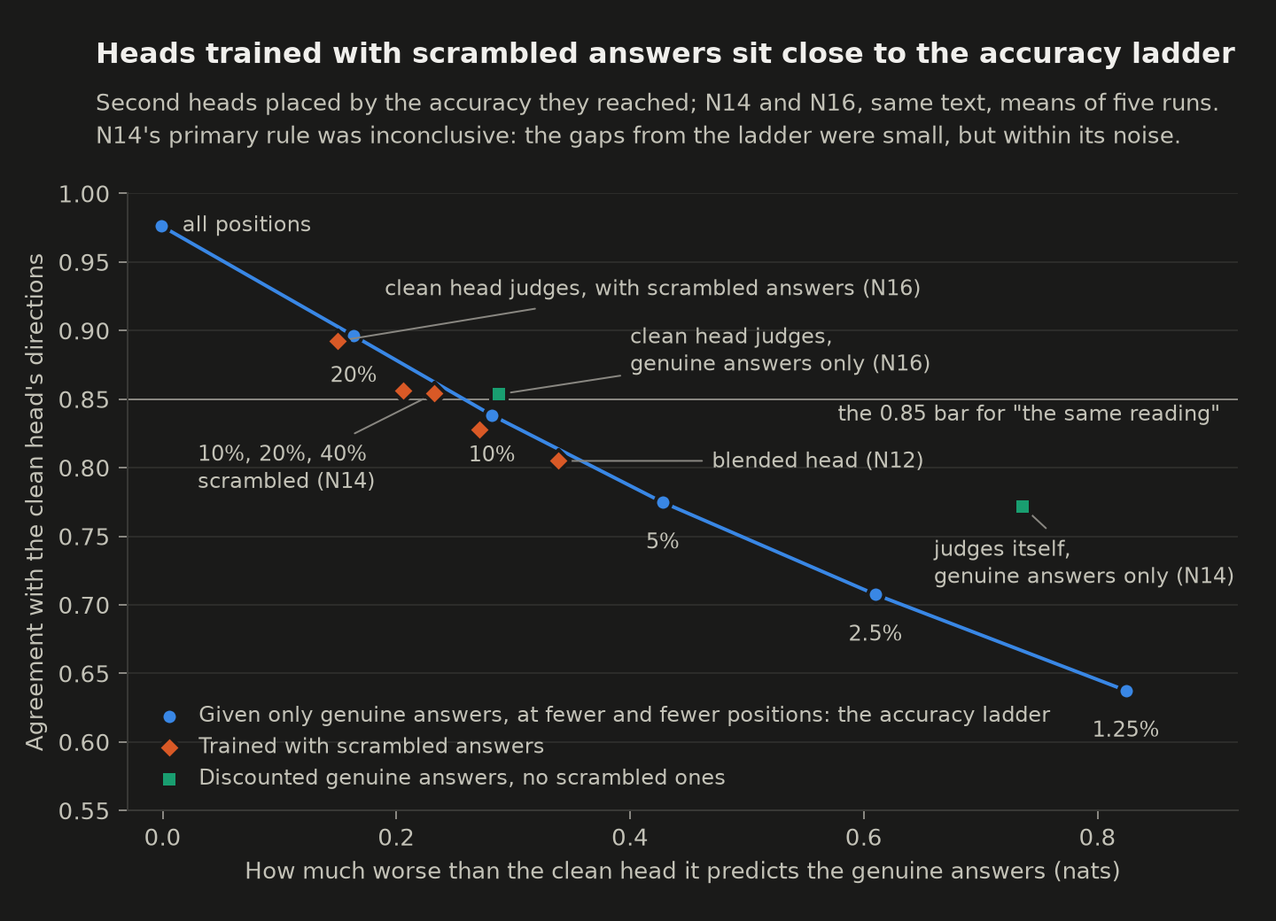
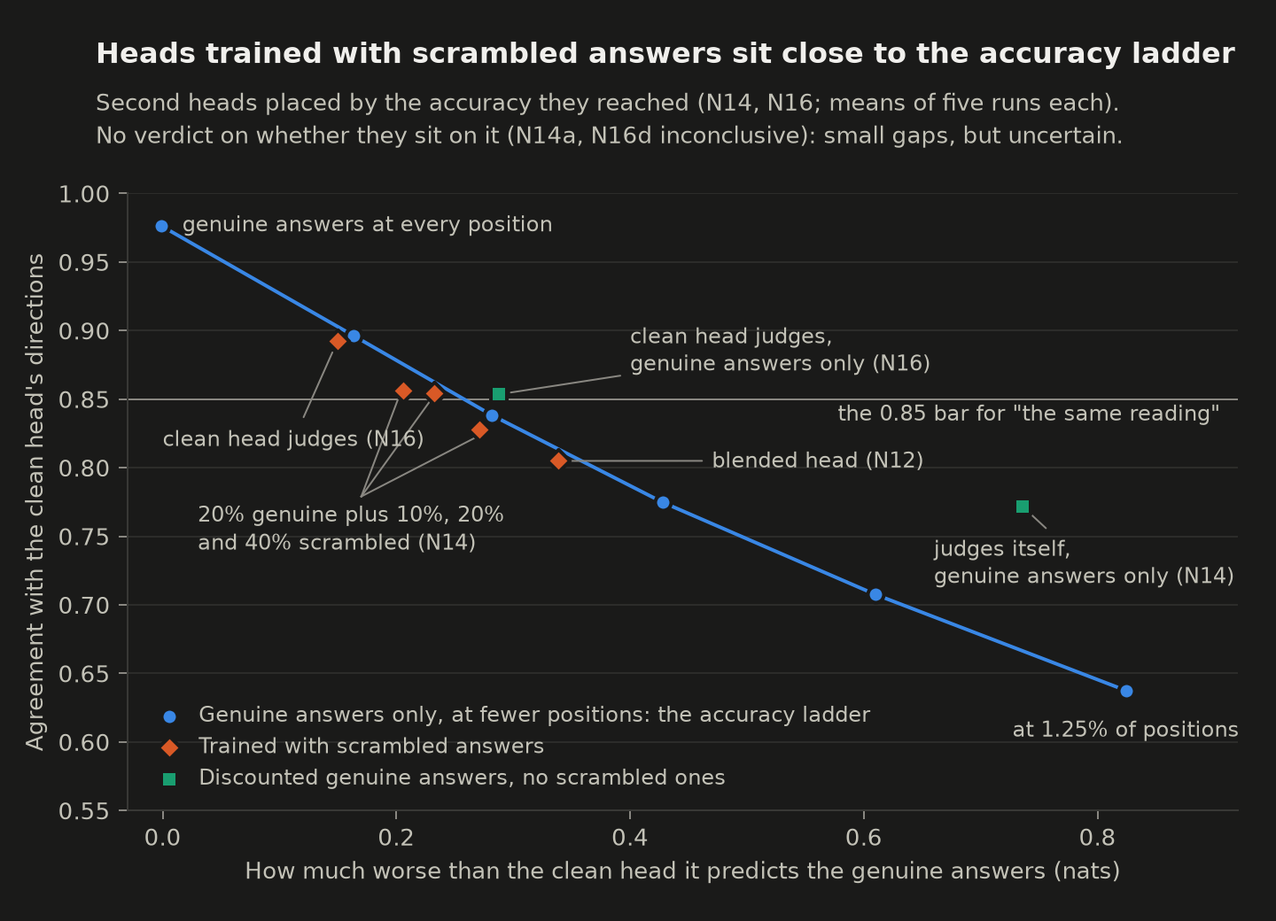
Figures and references: corrections from a fresh reader's check (6 substantive, 10 minor)
- Figure 1 now sits after Chapter 3 and says it plots N8's re-measurement on two sets of models; the text gives the
  matching numbers (on N8's measure the scrambled head shares 0.31 against 0.25 four words ahead). A band shows the
  deliberately mismatched head (0.13-0.18), so the far readings are not read against the theoretical random level
  alone.
- Figure 2: the middle rung labels removed so no label attaches to the wrong point; the three N14 doses labelled
  together with a leader each; the N16 leader ends on its diamond; the subtitle says N14a and N16d gave no verdict.
- Figure 3: the y-axis is the gap behind the clean head, not the glossary's "shortfall"; the caption maps the
  shortfall onto the bars; the subtitle no longer calls the judge comparisons exploratory (they are N16a and N16c).
- The WikiText-2 preregistration's dated note named the wrong file: the chance ranges are computed before any result
  by run_sanity.py and recorded in results/sanity.json; analyze.py applies the tau = 0 check and H5b's binomial test.
- Remaining references: the necessity audit's mention of the author's writing method; chance_check.py in the
  too-linear note; the palette comment in make_figures.py. (The previous commit removed the scientific-experimentation
  skill's name from the two conjecture notes, not a writing skill as its message said.)
- "Apart from the dated result lines, nothing here is a finding" in both conjecture notes; the audit's source names
[…]

diff --git a/experiments/simultaneity-conjecture/make_figures.py b/experiments/simultaneity-conjecture/make_figures.py
@@ -30,11 +30,11 @@ SEEDS6R = [3701, 3702, 3703, 3704, 3705]
 SEEDS7 = [3801, 3802, 3803, 3804, 3805]
 SEEDS12 = [4101, 4102, 4103, 4104, 4105]
 
-# The reference palette's first three categorical slots (validated all-pairs in both modes) and its chrome.
+# Three colours chosen to stay distinct for colour-blind readers, each stepped for a light and a dark background, and grey chrome.
 THEMES = {
-    'light': dict(surface='#fcfcfb', ink='#0b0b0b', ink2='#52514e', muted='#898781', grid='#e1e0d9', axis='#c3c2b7',
+    'light': dict(faint=0.35, surface='#fcfcfb', ink='#0b0b0b', ink2='#52514e', muted='#898781', grid='#e1e0d9', axis='#c3c2b7',
                   s1='#2a78d6', s2='#eb6834', s3='#1baf7a'),
-    'dark': dict(surface='#1a1a19', ink='#f0efec', ink2='#c3c2b7', muted='#898781', grid='#2c2c2a', axis='#383835',
+    'dark': dict(faint=0.6, surface='#1a1a19', ink='#f0efec', ink2='#c3c2b7', muted='#898781', grid='#2c2c2a', axis='#383835',
                  s1='#3987e5', s2='#d95926', s3='#199e70'),
 }
 PX = 0.72            # one display pixel in points, at 100 dpi
@@ -90,7 +90,8 @@ def distance_data():
         ladder[k] = [load('n8', f'f_n6r_{arm}_seed{s}')['fisher']['overlap_AB'] for s in SEEDS6R]
     noisy = [load('n8', f'f_n7_noisy_seed{s}')['fisher']['overlap_AB'] for s in SEEDS7]
     rank = load('n8', f'f_n6r_k2_seed{SEEDS6R[0]}')['fisher']['rank']
-    return ladder, noisy, rank / 256
+    rotated = [load('n8', f'f_n6r_same_seed{s}')['rotated_control']['overlap_AB'] for s in SEEDS6R]
+    return ladder, noisy, rank / 256, rotated
 
 
 RUNGS = ('clean', 'sub20', 'sub10', 'sub05', 'sub025', 'sub0125')
@@ -124,29 +125,32 @@ def twobytwo_data():
 # ------------------------------------------------------------------ figures
 
 def fig_distance(c, data):
-    ladder, noisy, rand = data
+    ladder, noisy, rand, rotated = data
     fig, ax = figure(c)
-    fig.subplots_adjust(left=0.1, right=0.74, top=0.79, bottom=0.14)
+    fig.subplots_adjust(left=0.1, right=0.72, top=0.79, bottom=0.14)
     xs = [1, 2, 4, 8]
     means = [st.mean(ladder[k]) for k in xs]
-    ax.axhline(rand, color=c['muted'], linewidth=1 * PX, zorder=1)
-    ax.text(8.25, rand, 'random directions', color=c['ink2'], fontsize=9, va='center', ha='left', clip_on=False)
+    lab = dict(color=c['ink2'], fontsize=9)
+    ax.axhspan(min(rotated), max(rotated), color=c['muted'], alpha=0.16, linewidth=0, zorder=1)
+    ax.text(8.35, st.mean(rotated), 'a mismatched head', va='center', ha='left', clip_on=False, **lab)
+    ax.plot([0.85, 8.0], [rand, rand], color=c['muted'], linewidth=1 * PX, zorder=1)
+    ax.text(8.35, rand, 'random directions', va='center', ha='left', clip_on=False, **lab)
     for k in xs:
-        ax.scatter([k] * len(ladder[k]), ladder[k], s=(5 * PX) ** 2 * 2, color=c['s1'], alpha=0.35, linewidths=0, zorder=2)
+        ax.scatter([k] * len(ladder[k]), ladder[k], s=(5 * PX) ** 2 * 2, color=c['s1'], alpha=c['faint'], linewidths=0, zorder=2)
     ax.plot(xs, means, color=c['s1'], linewidth=2 * PX, solid_capstyle='round', solid_joinstyle='round', zorder=3)
     ax.scatter(xs, means, s=(9 * PX) ** 2, color=c['s1'], edgecolors=c['surface'], linewidths=2 * PX, zorder=4)
-    ax.scatter([1] * len(noisy), noisy, s=(5 * PX) ** 2 * 2, color=c['s2'], alpha=0.35, linewidths=0, marker='D', zorder=2)
+    ax.scatter([1] * len(noisy), noisy, s=(5 * PX) ** 2 * 2, color=c['s2'], alpha=c['faint'], linewidths=0, marker='D', zorder=2)
     ax.scatter([1], [st.mean(noisy)], s=(9 * PX) ** 2, color=c['s2'], edgecolors=c['surface'], linewidths=2 * PX, marker='D', zorder=4)
-    ax.text(8.25, means[-1], f'clean readings\n(N6r, N8): {means[-1]:.2f} at 8', color=c['ink2'], fontsize=9, va='center', ha='left', clip_on=False)
-    ax.text(1.25, st.mean(noisy) - 0.03, f'the next word, 80% scrambled\nanswers (N7, N8): {st.mean(noisy):.2f}', color=c['ink2'], fontsize=9, va='top', ha='left', linespacing=1.3)
-    ax.text(1.25, means[0], f'two heads, same word: {means[0]:.2f}', color=c['ink2'], fontsize=9, va='center', ha='left')
+    ax.text(4.4, 0.33, f'the ladder (N6r\'s models):\n{means[-1]:.2f} at 8 words ahead', va='center', ha='left', linespacing=1.3, **lab)
+    ax.text(1.12, st.mean(noisy) - 0.035, f'next word, 80% scrambled\nanswers (N7\'s models): {st.mean(noisy):.2f}', va='top', ha='left', linespacing=1.3, **lab)
+    ax.text(1.2, means[0], f'two heads, same word: {means[0]:.2f}', va='center', ha='left', **lab)
     ax.set_xscale('log', base=2)
     ax.set_xticks(xs); ax.set_xticklabels(['1', '2', '4', '8'])
     ax.set_xlim(0.85, 8.6); ax.set_ylim(0, 1.02)
-    ax.set_xlabel('How many words ahead the second reading predicts', color=c['ink2'], fontsize=9.5)
+    ax.set_xlabel('How many words ahead the second reading predicts (each step doubles)', color=c['ink2'], fontsize=9.5)
     ax.set_ylabel('Shared directions with the next-word reading', color=c['ink2'], fontsize=9.5)
     titles(fig, c, 'The further ahead a reading looks, the fewer directions it shares',
-           'Overlap of the directions each reading depends on, measured without the right answers.\nFaint marks: five runs each; solid marks and line: their mean.')
+           'Overlap of the directions each reading depends on, measured without the right answers (N8).\nFaint marks: five runs each; solid marks and line: their mean.')
     return fig
 
 
@@ -155,37 +159,40 @@ def fig_accuracy(c, pts):
     fig.subplots_adjust(left=0.1, right=0.97, top=0.79, bottom=0.12)
     mean = lambda a: (st.mean(p[0] for p in pts[a]), st.mean(p[1] for p in pts[a]))
     lab = dict(color=c['ink2'], fontsize=8.5)
+    lead = dict(color=c['muted'], linewidth=1 * PX)
     ax.axhline(0.85, color=c['muted'], linewidth=1 * PX, zorder=1)
     ax.text(0.905, 0.846, 'the 0.85 bar for "the same reading"', ha='right', va='top', **lab)
     lx, ly = zip(*[mean(a) for a in RUNGS])
     ax.plot(lx, ly, color=c['s1'], linewidth=2 * PX, solid_capstyle='round', solid_joinstyle='round', zorder=2)
     ax.scatter(lx, ly, s=(9 * PX) ** 2, color=c['s1'], edgecolors=c['surface'], linewidths=2 * PX, zorder=3,
-               label='Given only genuine answers, at fewer and fewer positions: the accuracy ladder')
-    for a, (x, y) in zip(RUNGS, zip(lx, ly)):
-        if a == 'clean':
-            ax.text(x + 0.018, y, 'all positions', ha='left', va='center', **lab)
-        else:
-            ax.text(x, y - 0.022, RUNG_LABEL[a], ha='center', va='top', **lab)
+               label='Genuine answers only, at fewer positions: the accuracy ladder')
+    ax.text(lx[0] + 0.018, ly[0], 'genuine answers at every position', ha='left', va='center', **lab)
+    ax.text(lx[-1], ly[-1] - 0.022, 'at 1.25% of positions', ha='center', va='top', **lab)
     sx, sy = zip(*[mean(a) for a in SCRAMBLED])
     ax.scatter(sx, sy, s=(9 * PX) ** 2, color=c['s2'], edgecolors=c['surface'], linewidths=2 * PX, marker='D', zorder=4,
                label='Trained with scrambled answers')
     nx, ny = zip(*[mean(a) for a in NOSCRAMBLE])
     ax.scatter(nx, ny, s=(9 * PX) ** 2, color=c['s3'], edgecolors=c['surface'], linewidths=2 * PX, marker='s', zorder=4,
                label='Discounted genuine answers, no scrambled ones')
-    note = {'rw-oracle': ('clean head judges, with scrambled answers (N16)', (0.19, 0.93), 'left'),
-            'r20': ('10%, 20%, 40%\nscrambled (N14)', (0.03, 0.80), 'left'),
-            'n80-mix': ('blended head (N12)', (0.47, 0.805), 'left'),
-            'sub20-oracle': ('clean head judges,\ngenuine answers only (N16)', (0.40, 0.885), 'left'),
-            'sub20-rw': ('judges itself,\ngenuine answers only (N14)', (0.66, 0.73), 'left')}
-    for a, (txt, xy, ha) in note.items():
-        ax.annotate(txt, mean(a), xy, ha=ha, va='center', linespacing=1.3,
-                    arrowprops=dict(arrowstyle='-', color=c['muted'], linewidth=1 * PX, shrinkA=2, shrinkB=5), **lab)
+    # the three N14 doses: one label, a leader to each
+    tx, ty = 0.03, 0.755
+    ax.text(tx, ty, '20% genuine plus 10%, 20%\nand 40% scrambled (N14)', ha='left', va='center', linespacing=1.3, **lab)
+    for a in ('r10', 'r20', 'r40'):
+        x, y = mean(a)
+        ax.plot([0.17, x - 0.004], [ty + 0.024, y - 0.006], zorder=1, **lead)
+    note = {'rw-oracle': ('clean head judges (N16)', (0.0, 0.82)),
+            'n80-mix': ('blended head (N12)', (0.47, 0.805)),
+            'sub20-oracle': ('clean head judges,\ngenuine answers only (N16)', (0.40, 0.885)),
+            'sub20-rw': ('judges itself,\ngenuine answers only (N14)', (0.66, 0.73))}
+    for a, (txt, xy) in note.items():
+        ax.annotate(txt, mean(a), xy, ha='left', va='center', linespacing=1.3,
+                    arrowprops=dict(arrowstyle='-', shrinkA=2, shrinkB=5, **lead), **lab)
     ax.set_xlim(-0.03, 0.92); ax.set_ylim(0.55, 1.0)
     ax.set_xlabel('How much worse than the clean head it predicts the genuine answers (nats)', color=c['ink2'], fontsize=9.5)
     ax.set_ylabel('Agreement with the clean head\'s directions', color=c['ink2'], fontsize=9.5)
     ax.legend(loc='lower left', frameon=False, fontsize=8.5, labelcolor=c['ink2'], handletextpad=0.4, borderaxespad=0.6)
     titles(fig, c, 'Heads trained with scrambled answers sit close to the accuracy ladder',
-           'Second heads placed by the accuracy they reached; N14 and N16, same text, means of five runs.\nN14\'s primary rule was inconclusive: the gaps from the ladder were small, but within its noise.')
+           'Second heads placed by the accuracy they reached (N14, N16; means of five runs each).\nNo verdict on whether they sit on it (N14a, N16d inconclusive): small gaps, but uncertain.')
     return fig
 
 
@@ -220,24 +227,26 @@ def fig_twobytwo(c, data):
             ax.text(x, v + 0.015, f'{v:.2f}', color=c['ink'], fontsize=9.5, ha='center', va='bottom', zorder=6,
                     bbox=dict(facecolor=c['surface'], edgecolor='none', pad=1.0))
     ref = st.mean(data['sub20'])
-    ax.axhline(ref, color=c['muted'], linewidth=1 * PX, zorder=4)
-    ax.text(-0.52, ref + 0.012, f'genuine answers only,\nat full weight: {ref:.2f}', color=c['ink2'], fontsize=8.5, ha='left', va='bottom', linespacing=1.3)
+    ax.axhline(ref, color=c['muted'], linewidth=1 * PX, zorder=2)
+    ax.text(1.53, ref + 0.012, f'genuine answers only,\nat full weight: {ref:.2f}', color=c['ink2'], fontsize=8.5, ha='right', va='bottom', linespacing=1.3)
     ax.set_xticks([0, 1]); ax.set_xticklabels([g[1] for g in groups])
     ax.tick_params(axis='x', length=0, labelsize=9.5, labelcolor=c['ink'])
-    ax.set_ylabel('Shortfall behind the clean head (nats)', color=c['ink2'], fontsize=9.5)
+    ax.set_ylabel('Gap behind the clean head (nats)', color=c['ink2'], fontsize=9.5)
     ax.scatter([], [], marker='s', s=(9 * PX) ** 2, color=c['s3'], label='Genuine answers only, discounted')
     ax.scatter([], [], marker='s', s=(9 * PX) ** 2, color=c['s2'], label='Plus the scrambled answers')
     ax.legend(loc='upper right', frameon=False, fontsize=8.5, labelcolor=c['ink2'], handletextpad=0.3)
-    titles(fig, c, 'The shortfall depends on who judges, and on the scrambled answers',
-           'How far each discounted head falls behind the clean head on the genuine answers; lower is better.\nMeans of five runs (N16); an exploratory comparison, not one of N16\'s claims.')
+    titles(fig, c, 'The gap shrank with a clean judge, and with the scrambled answers',
+           'How far each discounted head falls behind the clean head on the genuine answers; lower is better.\nFive-run means (N16). The judge comparisons are N16\'s claims; the rest is exploratory.')
     return fig
 
 
 def write_data(dist, acc, tb):
-    ladder, noisy, rand = dist
+    ladder, noisy, rand, rotated = dist
     L = ['# Figure data', '', 'Every value plotted in the plain summary\'s figures, by run. Generated by `make_figures.py` from the records in `results/`.', '',
          '## Figure 1: the distance ladder', '',
-         f'Target-free overlap of the directions head B and the next-word head A depend on (N8). Random directions: {rand:.4f}.', '',
+         f'Target-free overlap of the directions head B and the next-word head A depend on (N8). Random directions, in theory: {rand:.4f}. '
+         f'The deliberately mismatched head (N8\'s rotated control on N6r\'s same-word models): ' + ', '.join(f'{v:.3f}' for v in rotated) + '. '
+         f'Seeds: {SEEDS6R[0]}–{SEEDS6R[-1]} for N6r\'s models, {SEEDS7[0]}–{SEEDS7[-1]} for N7\'s; run 1 is the first seed of each.', '',
          '| Second reading | ' + ' | '.join(f'run {i + 1}' for i in range(5)) + ' | Mean |', '|---|' + '---|' * 6]
     for k in (1, 2, 4, 8):
         name = 'the same word' if k == 1 else f'{k} words ahead'

diff --git a/experiments/simultaneity-conjecture/PLAIN_SUMMARY.md b/experiments/simultaneity-conjecture/PLAIN_SUMMARY.md
@@ -56,22 +56,22 @@ So at this scale the dynamics were not needed to switch readings, and they did n
 
 - **The model needs the separation.** Forcing both readings through the same 64 of the state's 256 directions, at the heads' readout, cost 0.088 nats more than the same squeeze cost one reading (N4, *supported*).
 - **Why was not settled.** With all 256 directions the cost shrank to a third, but the runs varied too much for a verdict (N5, *inconclusive*). The same runs showed the next-word and following-word readings settling at about half-overlap from either starting point (exploratory).
-- **The further ahead, the more separate:** at 2, 4 and 8 words ahead the overlap fell from about a half to a third to under a quarter, in every run (N6r, *supported*). Its first version, N6, was *untestable*: a control's threshold had been carried over from a test measured on almost twice as many passages. So half-overlap is what the next word and the word after need, not a rule for any two readings.
-
-<picture>
-  <source media="(prefers-color-scheme: dark)" srcset="figures/distance_ladder_dark.png">
-  <img src="figures/distance_ladder_light.png" width="720" alt="Line chart. The share of directions a second reading has in common with the next-word reading falls from 0.95 for two heads reading the same word to 0.44 at two words ahead, 0.25 at four and 0.19 at eight, against 0.06 for random directions. A next-word reading trained on 80% scrambled answers shares 0.31.">
-</picture>
-
-*Figure 1. The distance ladder on N6r's models, as N8 re-measured it without the right answers (0.44, 0.25 and 0.19 at 2, 4 and 8 words ahead, a little below N6r's own 0.49, 0.31 and 0.23), and the next-word reading trained on scrambled answers (Chapter 3). Values by run: [`figures/FIGURE_DATA.md`](figures/FIGURE_DATA.md).*
+- **The further ahead, the more separate:** at 2, 4 and 8 words ahead the overlap fell from about a half to a third to under a quarter (0.49, 0.31, 0.23), in every run (N6r, *supported*). Its first version, N6, was *untestable*: a control's threshold had been carried over from a test measured on almost twice as many passages. So half-overlap is what the next word and the word after need, not a rule for any two readings.
 
 This **distance ladder** raised the question: is a reading further ahead more *different*, or only *harder*?
 
 ## Chapter 3: different, or harder? (N7 to N9)
 
-- **Neither alone orders the results.** A next-word reading made harder by scrambling 80% of its training answers shared about a third with the clean one, as little as the reading four words ahead (N7, *refuted*). So the distance ladder does not simply measure how different readings are. Difficulty alone does not order it either: this head was the hardest of all, yet shared more than the reading eight words ahead.
-- **It is not where the mistakes fall:** a measure that leaves the right answers out gave the same results (N8).
+- **Neither alone orders the results.** A next-word reading made harder by scrambling 80% of its training answers shared about a third with the clean one, as little as the reading four words ahead (0.31 against 0.30; N7, *refuted*). So the distance ladder does not simply measure how different readings are. Difficulty alone does not order it either: this head was the hardest of all, yet shared more than the reading eight words ahead.
+- **It is not where the mistakes fall:** a measure that leaves the right answers out gave the same pattern (N8). On it the scrambled head shares a little more than the far readings (0.31 against 0.25 four words ahead), still far from the 0.95 of two heads reading the same word (Figure 1).
 - **The measure passed its check; the scrambled head is not a noisy copy.** The measure recognised a perfect noisy copy of the clean head as the same reading (N9, *supported*), and the trained scrambled head was nowhere near it (*refuted*). Trained on scrambled answers, the head learned a different, weaker reading.
+
+<picture>
+  <source media="(prefers-color-scheme: dark)" srcset="figures/distance_ladder_dark.png">
+  <img src="figures/distance_ladder_light.png" width="720" alt="Line chart. The share of directions a second reading has in common with the next-word reading falls from 0.95 for two heads reading the same word to 0.44 at two words ahead, 0.25 at four and 0.19 at eight. A deliberately mismatched head scores 0.13 to 0.18, and random directions 0.06. A next-word reading trained on 80% scrambled answers shares 0.31.">
+</picture>
+
+*Figure 1. The distance ladder (N6r's models) and the next-word reading trained on scrambled answers (N7's models), both as N8 re-measured them without the right answers. On this measure the ladder reads 0.44, 0.25 and 0.19 at 2, 4 and 8 words ahead, a little below N6r's own 0.49, 0.31 and 0.23. The shaded band is a deliberately mismatched head: below it, "shared" means nothing. Values by run: [`figures/FIGURE_DATA.md`](figures/FIGURE_DATA.md).*
 
 From here the tests followed that puzzle. It is a question about learning from noisy answers more than about holding several readings, and it bears on the conjecture in one way: the directions a reading uses depend on how it was trained, not only on what it reads.
 
@@ -85,17 +85,17 @@ From here the tests followed that puzzle. It is a question about learning from n
 
 <picture>
   <source media="(prefers-color-scheme: dark)" srcset="figures/accuracy_ladder_dark.png">
-  <img src="figures/accuracy_ladder_light.png" width="720" alt="Scatter chart of agreement with the clean head against how much worse a head predicts the genuine answers. Heads given fewer genuine answers form a descending line from 0.98 at no loss to 0.64 at 0.82 nats. Heads trained with scrambled answers sit close to that line. A discounted head given no scrambled answers and judging itself sits well above it, at 0.77 and 0.74 nats.">
+  <img src="figures/accuracy_ladder_light.png" width="720" alt="Scatter chart of agreement with the clean head against how much worse a head predicts the genuine answers. Heads given fewer genuine answers form a descending line from agreement 0.98 at no loss to 0.64 at 0.82 nats. Heads trained with scrambled answers sit close to that line. Of the two discounted heads given no scrambled answers, the one judged by the clean head sits near the line at agreement 0.85 and 0.29 nats, and the one that judges itself sits well above it, at agreement 0.77 and 0.74 nats.">
 </picture>
 
-*Figure 2. Heads placed by the accuracy they reached (N14 and N16). Values by run: [`figures/FIGURE_DATA.md`](figures/FIGURE_DATA.md).*
+*Figure 2. Heads placed by the accuracy they reached (N14 and N16). For the blended and discounted heads, the loss is that of the reading inside the blend. Whether the heads sit on the ladder got no verdict (N14a and N16d inconclusive). Values by run: [`figures/FIGURE_DATA.md`](figures/FIGURE_DATA.md).*
 
 <picture>
   <source media="(prefers-color-scheme: dark)" srcset="figures/judge_two_by_two_dark.png">
   <img src="figures/judge_two_by_two_light.png" width="720" alt="Grouped bar chart of how far each discounted head falls behind the clean head. When the head judges its own answers: 0.74 nats with genuine answers only, 0.34 with the scrambled answers added. When the clean head judges: 0.29 and 0.15. A head given the genuine answers at full weight falls 0.16 behind.">
 </picture>
 
-*Figure 3. N16's two-by-two, an exploratory comparison. Values by run: [`figures/FIGURE_DATA.md`](figures/FIGURE_DATA.md).*
+*Figure 3. N16's two-by-two. The glossary's shortfall is the distance from an orange bar down to the line: 0.17 nats when the head judges itself, none when the clean head judges. The comparisons of the two judges are N16's claims (N16a, N16c, supported); the effect of the scrambled answers is exploratory. Values by run: [`figures/FIGURE_DATA.md`](figures/FIGURE_DATA.md).*
 
 ## What we now understand
 

diff --git a/experiments/simultaneity-conjecture/NECESSITY_AUDIT.md b/experiments/simultaneity-conjecture/NECESSITY_AUDIT.md
@@ -2,7 +2,7 @@
 
 Date: 2026-10-21    Status: method note, adopted from N12 on.
 
-**Source.** This note adapts a method the project's author developed for legal writing: finding the arguments that turn on a claim that some condition is necessary, and answering them move by move. Here the method's structure and its catalogue of replies are applied to the project's own designs.
+**Source.** This note adapts a method the project's author developed for analysing arguments in legal writing: finding the arguments that turn on a claim that some condition is necessary, which philosophers call transcendental arguments, and answering them move by move. Here the method's structure and its catalogue of replies are applied to the project's own designs.
 
 ## Why
 
@@ -73,7 +73,7 @@ Four features describe each claim:
 
 A summary that restates a note keeps the note's modal word: "consistent with", "suggests", "exploratory", "secondary", "untestable", "intermediate". A summary never upgrades it.
 
-`PLAIN_SUMMARY.md`, `CRITICAL_REVIEW.md` and the result lines in `CONJECTURE.md` and `PATHS_AND_UNDERSTANDING.md` are checked against the notes by a fresh reader that has not seen the drafting, as the author's writing method prescribes for its adversarial reread. The first such check, on 2026-10-21, found three substantive problems and seventeen minor ones in the two summaries, most of them modal upgrades; all were corrected, and the review's section on open correction records them. A second round, on the N12 passages, found three substantive and ten minor problems, all corrected. A third round, on the N13 passages, found three substantive and twenty-two minor problems, all corrected; most were again modal upgrades, and the largest was an exploratory reading of where head B's cost to head A comes from that had become a flat claim in three summaries. A fourth round, on the N14 passages, found nine substantive and seventeen minor problems, all corrected; the largest were a 95% exploratory interval quoted beside a preregistered 97.5% rule in five places, "the same in five seeds to within 0.02" said of a ladder whose rungs vary by 0.05 across seeds, and an inconclusive verdict described as the forbidden outcome having happened. A fifth round, on the N15 and N16 passages, found eight substantive and twenty minor problems, all corrected; the largest were an error in the algebra of an exploratory derivation, a calibration value presented as an input to a margin it had postdated, and claims beyond what the comparisons separated (a rival "ruled out" where only its prediction failed, and a judge's two differences counted where there were three).
+`PLAIN_SUMMARY.md`, `CRITICAL_REVIEW.md` and the result lines in `CONJECTURE.md` and `PATHS_AND_UNDERSTANDING.md` are checked against the notes by a fresh reader that has not seen the drafting, an adversarial reread that is part of the method. The first such check, on 2026-10-21, found three substantive problems and seventeen minor ones in the two summaries, most of them modal upgrades; all were corrected, and the review's section on open correction records them. A second round, on the N12 passages, found three substantive and ten minor problems, all corrected. A third round, on the N13 passages, found three substantive and twenty-two minor problems, all corrected; most were again modal upgrades, and the largest was an exploratory reading of where head B's cost to head A comes from that had become a flat claim in three summaries. A fourth round, on the N14 passages, found nine substantive and seventeen minor problems, all corrected; the largest were a 95% exploratory interval quoted beside a preregistered 97.5% rule in five places, "the same in five seeds to within 0.02" said of a ladder whose rungs vary by 0.05 across seeds, and an inconclusive verdict described as the forbidden outcome having happened. A fifth round, on the N15 and N16 passages, found eight substantive and twenty minor problems, all corrected; the largest were an error in the algebra of an exploratory derivation, a calibration value presented as an input to a margin it had postdated, and claims beyond what the comparisons separated (a rival "ruled out" where only its prediction failed, and a judge's two differences counted where there were three).
 
 ## The record so far
 

diff --git a/experiments/too-linear-conjecture/CONJECTURE.md b/experiments/too-linear-conjecture/CONJECTURE.md
@@ -6,7 +6,7 @@ Date: 2026-10-04    Status: conjecture, partly tested (updated 2026-10-07). T0 a
 
 **T1 result, 2026-10-04: rival G confirmed from the training side; P and C2 refuted at this scale.** Training Model A with adjoint gradients cost +0.79 nats (95% interval [+0.66, +0.92]), about 95% of the gap to the baseline at 10% of the budget. Losing one block's separate weights cost only +0.02 (rival P refuted). A weight-tied repeated block matched the two separate blocks it replaced, +0.007 (C2's forbidden case, so C2 is refuted at this scale). Trained with exact gradients, Model A was 0.04 nats behind the baseline. See `T1_NOTE.md`. C1 and C3 remain untested; the work moved on to the simultaneity conjecture (`../simultaneity-conjecture/`).
 
-Nothing here is a finding. The refutations recorded in `experiments/wikitext2-replication/RESULTS.md` and `experiments/wikitext103-training/RESULTS.md` stand whatever the tests below show. These conjectures are new explanations to be criticised, not ways to restore the paper's claims.
+Apart from the dated result lines, nothing here is a finding. The refutations recorded in `experiments/wikitext2-replication/RESULTS.md` and `experiments/wikitext103-training/RESULTS.md` stand whatever the tests below show. These conjectures are new explanations to be criticised, not ways to restore the paper's claims.
 
 ## The question
 
@@ -50,7 +50,7 @@ These results are criticism already in hand.
 | G. The gradients were wrong. `odeint_adjoint` recomputes the vector field in the backward pass with fresh dropout masks, and the Euler adjoint is only approximate, more so as α grows (Gholami et al., 2019). | The gap is mostly an optimisation defect. Exact backpropagation, with no architectural change, closes much of it. | T0 below: measure the gradient error directly on the saved checkpoints, with no training. |
 | P. Fewer separate weights. | A 5-layer baseline loses about as much as Model A. | A short 5-layer baseline run in T1. |
 | S. Steering is weak because of the steering procedure: one training prompt, 500 steps, control attached after training. | The weak steering persists unchanged with multiplicative modulation unless the procedure changes, and improves with a better procedure even with additive control. | In T2, fix the procedure first, with many prompts and the control used in training, and only then compare injection forms. |
-| N. Too few runs or prompts. | Differences between variants vanish with more seeds or prompts. | Preregister at least 5 seeds per variant and enough held-out prompts for a narrow chance range (`chance_check.py`). |
+| N. Too few runs or prompts. | Differences between variants vanish with more seeds or prompts. | Preregister at least 5 seeds per variant and enough held-out prompts for a narrow chance range (as `../wikitext2-replication/run_sanity.py` computes it). |
 
 ## Prior art
 

diff --git a/experiments/simultaneity-conjecture/CRITICAL_REVIEW.md b/experiments/simultaneity-conjecture/CRITICAL_REVIEW.md
@@ -202,7 +202,7 @@ That was the right order. A measure has to be trusted before it can carry the ma
 
 ### 9. Can a preregistration bind its own author?
 
-This criticism turns the method's own instrument against it. It has the shape of an old argument in contract law, Benjamin Cardozo's in *Beatty v. Guggenheim Exploration Co.*, 225 N.Y. 380, 387 (1919): a contract clause forbidding oral changes can itself be changed by the parties, because the power that made it can unmake it. The replies used below are the necessity audit's (`NECESSITY_AUDIT.md`).
+This criticism turns the method's own instrument against it. It has the shape of an old argument in contract law, Benjamin Cardozo's in *Beatty v. Guggenheim Exploration Co.*, 225 N.Y. 380, 387 (1919): a contract clause forbidding oral changes can itself be changed by the parties, because the power that made it can unmake it. The replies used below are the necessity audit's (`NECESSITY_AUDIT.md`), a method that comes from the analysis of legal arguments, which is why a contract case fits here.
 
 - **The criticism.** A preregistration binds only because its author approves it, and the same power of approval can amend it. So it binds nothing. The record has an example: N12's preregistration said the calibration could change only the number of fit steps, and amendment A1 changed a precondition instead.
 - **The reply** fixes the condition to a time and a level:

diff --git a/experiments/wikitext2-replication/PREREGISTRATION.md b/experiments/wikitext2-replication/PREREGISTRATION.md
@@ -136,7 +136,7 @@ Seed 42 reproduces the original run's model initialisation and batch order, sinc
 - Confirm the train split gives 2,391,884 tokens.
 - Inspect one training batch as text.
 - Run `chance_check.py` from the experimentation skill for every probe and every steering test set size, before reading the results.
-  *Note added 2026-10-25: `chance_check.py` belongs to a method guide that is not part of this repository. The chance checks the results rely on are computed in `analyze.py`, which tests probe accuracy at τ = 0 against chance in every seed.*
+  *Note added 2026-10-25: `chance_check.py` belongs to the method guide named here as "the experimentation skill", which is not part of this repository. The same step is in `run_sanity.py`, which `run_all.sh` runs first: it computes the range of results guessing would give for each test-set size (40 and 320 held-out prompts, 512 probe examples) and records them in `results/sanity.json` under `guessing_range_95`. `analyze.py` then applies the check at τ = 0 for the probes and the binomial test against 50% for H5b.*
 
 ## Analysis and reporting
 

diff --git a/experiments/simultaneity-conjecture/CONJECTURE.md b/experiments/simultaneity-conjecture/CONJECTURE.md
@@ -2,7 +2,7 @@
 
 Date: 2026-10-05    Status: conjecture, partly tested (updated 2026-10-22). G1 and the tests that followed from it (G1c, G1d, N1, N2, N4, N5, N6, N6r, N7, N8, N9, N10, N11, N12, N13, N14, N16) have run, and N15 was withdrawn before its real run. Their results are in the dated result lines at the end of "Dynamical regimes as voices" below, and in each test's note. V1–V3, G2 and G3 remain untested.
 
-Nothing here is a finding. Revised the same day after the author corrected the first version, which had misread the aim as setting word order aside.
+Apart from the dated result lines, nothing here is a finding. Revised the same day after the author corrected the first version, which had misread the aim as setting word order aside.
 
 ## The question
 

diff --git a/experiments/simultaneity-conjecture/figures/FIGURE_DATA.md b/experiments/simultaneity-conjecture/figures/FIGURE_DATA.md
@@ -4,7 +4,7 @@ Every value plotted in the plain summary's figures, by run. Generated by `make_f
 
 ## Figure 1: the distance ladder
 
-Target-free overlap of the directions head B and the next-word head A depend on (N8). Random directions: 0.0625.
+Target-free overlap of the directions head B and the next-word head A depend on (N8). Random directions, in theory: 0.0625. The deliberately mismatched head (N8's rotated control on N6r's same-word models): 0.145, 0.175, 0.150, 0.151, 0.131. Seeds: 3701–3705 for N6r's models, 3801–3805 for N7's; run 1 is the first seed of each.
 
 | Second reading | run 1 | run 2 | run 3 | run 4 | run 5 | Mean |
 |---|---|---|---|---|---|---|
